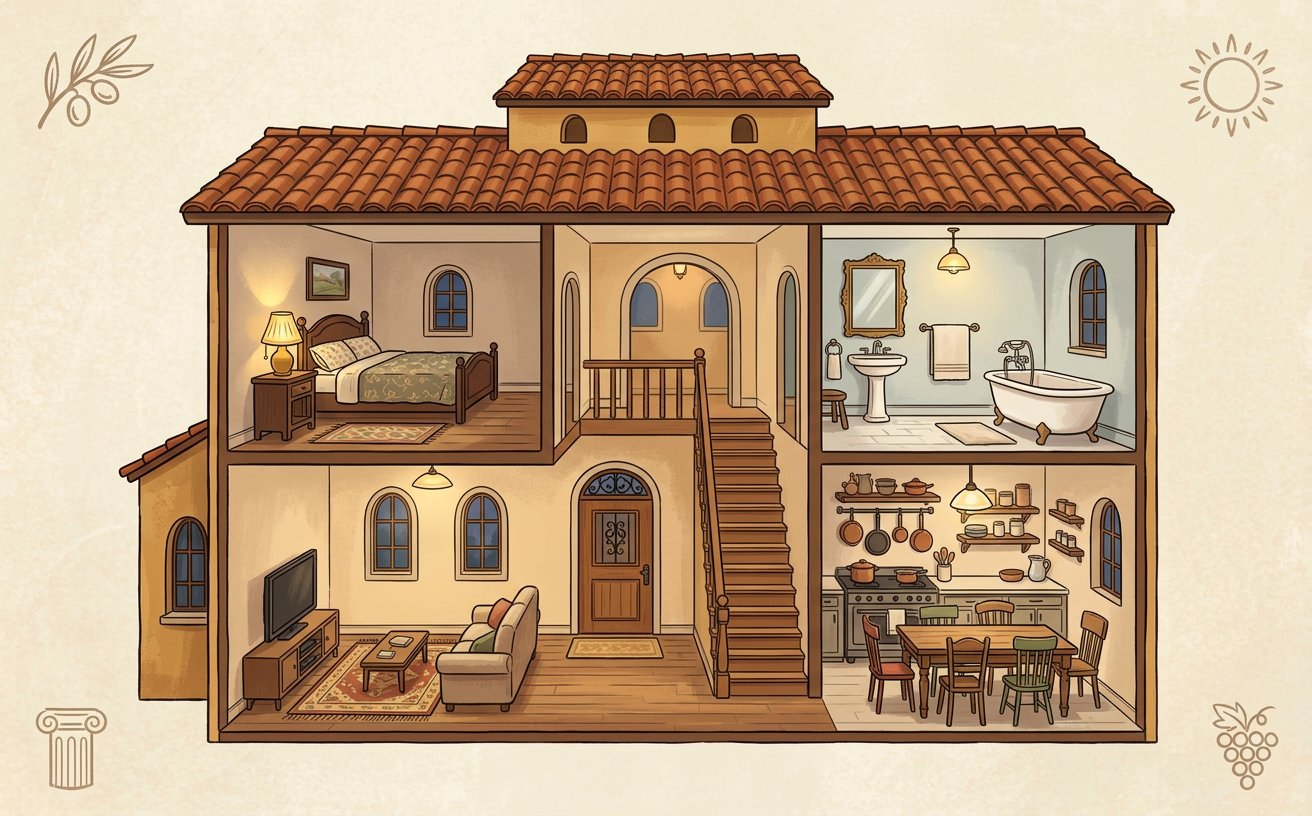
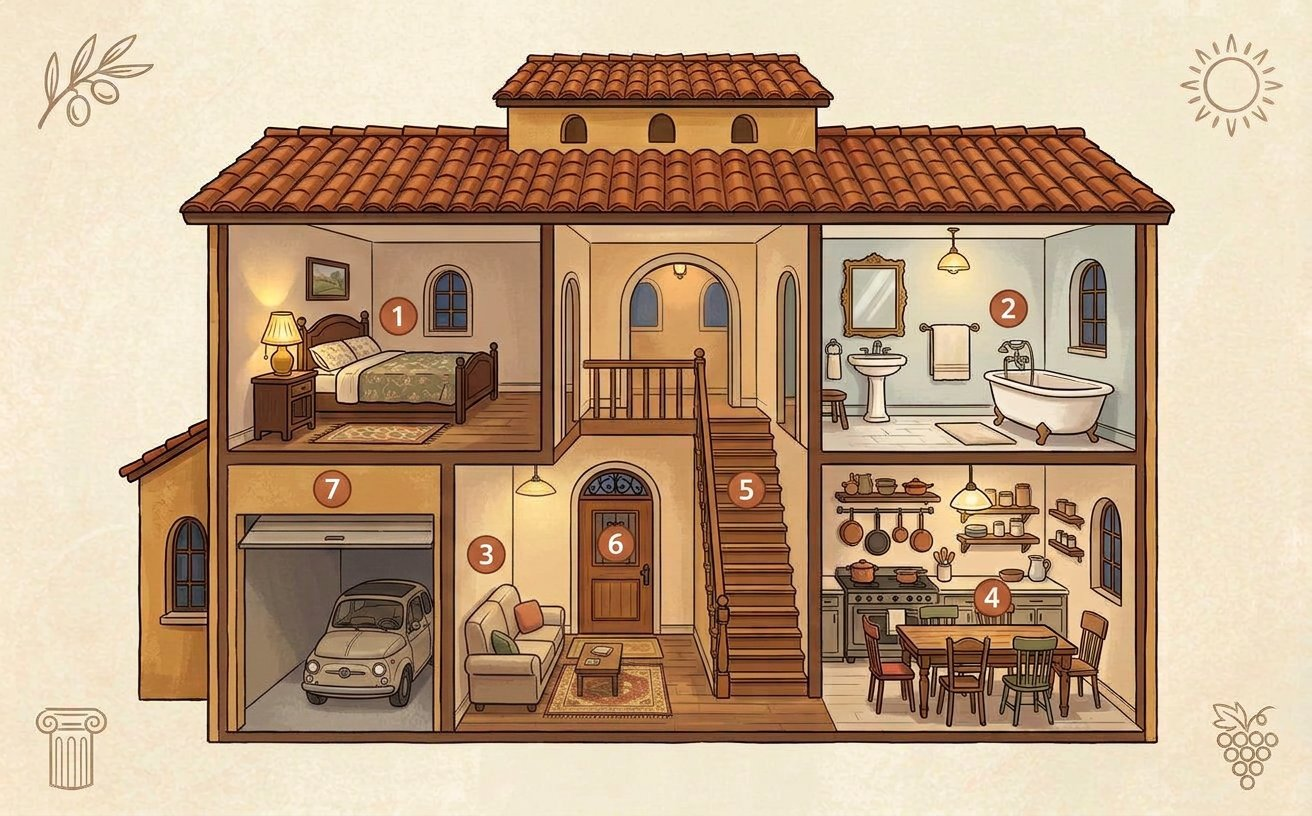
Numbered chart diagrams for Animals (12-card grid) and House (7 badges incl garage); garage card voiced

diff --git a/data/grammar.js b/data/grammar.js
@@ -1117,25 +1117,25 @@ const GRAMMAR = [
     base_en: "Farm and wild animals — find each one in the picture.",
     hint: "You already know كَلْب dog, قِطَّة cat, عُصْفور bird, قُنْفُذ hedgehog, غُراب crow, عَنْزَة goat and سَرَطان crab from the stories — here are the rest!",
     forms: [
-      { tag: "Farm · المزرعة", q_en: "The horse. The cow. The sheep. The donkey.",
+      { tag: "Farm · ١-٤", q_en: "Chart 1-4: The horse. The cow. The sheep. The donkey.",
         ar: "الحِصانُ. البَقَرَةُ. الخَروفُ. الحِمارُ.",
-        tr: "al-ḥiṣānu. al-baqaratu. al-kharūfu. al-ḥimāru.",
-        note: "بَقَرَة cow gives its name to the Quran's longest sura!",
+        tr: "1 al-ḥiṣānu · 2 al-baqaratu · 3 al-kharūfu · 4 al-ḥimāru",
+        note: "Match badges 1-4 in the chart. بَقَرَة cow gives its name to the Quran's longest sura!",
         audio: "animals-1" },
-      { tag: "Wild · البرية", q_en: "The lion. The elephant. The monkey. The fox.",
+      { tag: "Wild · ٦-٩", q_en: "Chart 6-9: The lion. The elephant. The monkey. The fox.",
         ar: "الأَسَدُ. الفيلُ. القِرْدُ. الثَّعْلَبُ.",
-        tr: "al-asadu. al-fīlu. al-qirdu. ath-thaʿlabu.",
-        note: "أَسَد lion — a beloved boys' name too. ثَعْلَب fox = the trickster of Arabic fables.",
+        tr: "6 al-asadu · 7 al-fīlu · 8 al-qirdu · 9 ath-thaʿlabu",
+        note: "Badges 6-9. أَسَد lion — a beloved boys' name too. ثَعْلَب fox = the trickster of Arabic fables.",
         audio: "animals-2" },
-      { tag: "The camel · الجمل", q_en: "The camel is the ship of the desert.",
+      { tag: "The camel · ٥", q_en: "Chart 5: The camel is the ship of the desert.",
         ar: "الجَمَلُ سَفينَةُ الصَّحْراءِ.",
-        tr: "al-jamalu safīnatu ṣ-ṣaḥrāʾi.",
-        note: "The famous phrase! جَمَل camel, سَفينَة ship, صَحْراء desert (the word 'Sahara' itself!).",
+        tr: "5 al-jamalu safīnatu ṣ-ṣaḥrāʾi.",
+        note: "Badge 5 — the famous phrase! جَمَل camel, سَفينَة ship, صَحْراء desert (the word 'Sahara' itself!).",
         audio: "animals-3" },
-      { tag: "In action · جملة", q_en: "The birds sing, the fish swim, and the bees make honey.",
+      { tag: "In action · ١٠-١٢", q_en: "Chart 10-12: The birds sing, the fish swim, and the bees make honey.",
         ar: "الطُّيورُ تُغَرِّدُ، وَالأَسْماكُ تَسْبَحُ، وَالنَّحْلُ يَصْنَعُ العَسَلَ.",
-        tr: "aṭ-ṭuyūru tugharridu, wa-l-asmāku tasbaḥu, wa-n-naḥlu yaṣnaʿu l-ʿasala.",
-        note: "Plurals: طُيور birds, أَسْماك fish. NON-human plurals take SHE-verbs — a key Arabic rule!",
+        tr: "10 ṭuyūr · 11 asmāk · 12 naḥl — aṭ-ṭuyūru tugharridu, wa-l-asmāku tasbaḥu, wa-n-naḥlu yaṣnaʿu l-ʿasala.",
+        note: "Badges 10-12. NON-human plurals take SHE-verbs — a key Arabic rule!",
         audio: "animals-4" }
     ],
     roles: {
@@ -1155,16 +1155,21 @@ const GRAMMAR = [
     base_en: "Rooms of the house — walk through the cutaway.",
     hint: "Room names are built with إضافة (of-phrases): غُرْفَةُ النَّوْمِ = room-of-sleep. Learn the pattern, build any room!",
     forms: [
-      { tag: "The rooms · الغرف", q_en: "The bedroom. The living room. The kitchen. The bathroom.",
-        ar: "غُرْفَةُ النَّوْمِ. غُرْفَةُ الجُلوسِ. المَطْبَخُ. الحَمّامُ.",
-        tr: "ghurfatu n-nawmi. ghurfatu l-julūsi. al-maṭbakhu. al-ḥammāmu.",
-        note: "Room-of-sleeping, room-of-sitting — from verbs you know: نامَ and جَلَسَ!",
+      { tag: "The rooms · ١-٤", q_en: "Badges 1-4: The bedroom. The bathroom. The living room. The kitchen.",
+        ar: "غُرْفَةُ النَّوْمِ. الحَمّامُ. غُرْفَةُ الجُلوسِ. المَطْبَخُ.",
+        tr: "1 ghurfatu n-nawmi · 2 al-ḥammāmu · 3 ghurfatu l-julūsi · 4 al-maṭbakhu",
+        note: "Follow the numbers in the cutaway! Room-of-sleeping, room-of-sitting — from verbs you know: نامَ and جَلَسَ.",
         audio: "house-1" },
-      { tag: "Parts · الأجزاء", q_en: "The door. The window. The ceiling. The wall. The stairs.",
+      { tag: "Parts · ٥-٦", q_en: "Badges 5-6 and around: The door. The window. The ceiling. The wall. The stairs.",
         ar: "البابُ. النّافِذَةُ. السَّقْفُ. الجِدارُ. الدَّرَجُ.",
-        tr: "al-bābu. an-nāfidhatu. as-saqfu. al-jidāru. ad-daraju.",
-        note: "باب and نافِذَة are old friends from the stories. دَرَج = stairs.",
+        tr: "6 al-bābu · an-nāfidhatu · as-saqfu · al-jidāru · 5 ad-daraju",
+        note: "Badge 5 = the stairs, badge 6 = the front door. باب and نافِذَة are old friends from the stories.",
         audio: "house-2" },
+      { tag: "Garage · ٧", q_en: "Badge 7: The garage. The car is in the garage.",
+        ar: "المِرْآبُ. السَّيّارَةُ في المِرْآبِ.",
+        tr: "7 al-mirʾābu. as-sayyāratu fī l-mirʾābi.",
+        note: "مِرْآب garage (colloquially also كَراج!). And السَّيّارَة you know from Layla's sea trip.",
+        audio: "house-5" },
       { tag: "Furniture · الأثاث", q_en: "The table and the chair are in the dining room.",
         ar: "الطّاوِلَةُ وَالكُرْسِيُّ في غُرْفَةِ الطَّعامِ.",
         tr: "aṭ-ṭāwilatu wa-l-kursiyyu fī ghurfati ṭ-ṭaʿāmi.",

diff --git a/index.html b/index.html
@@ -7,8 +7,8 @@
 <meta name="theme-color" content="#000000">
 <link rel="manifest" href="manifest.json">
 <link rel="preload" href="assets/fonts/msr-subset.woff2" as="font" type="font/woff2" crossorigin>
-<link rel="stylesheet" href="assets/fonts/fonts.css?v=77">
-<link rel="stylesheet" href="styles.css?v=77">
+<link rel="stylesheet" href="assets/fonts/fonts.css?v=78">
+<link rel="stylesheet" href="styles.css?v=78">
 </head>
 <body data-theme="dark">
 
@@ -287,12 +287,12 @@
   </div>
 </div>
 
-<script src="icons.js?v=77"></script>
-<script src="data/wordaudio.js?v=77"></script>
-<script src="data/wordbank.js?v=77"></script>
-<script src="data/stories.js?v=77"></script>
-<script src="data/dialogues.js?v=77"></script>
-<script src="data/grammar.js?v=77"></script>
-<script src="app.js?v=77"></script>
+<script src="icons.js?v=78"></script>
+<script src="data/wordaudio.js?v=78"></script>
+<script src="data/wordbank.js?v=78"></script>
+<script src="data/stories.js?v=78"></script>
+<script src="data/dialogues.js?v=78"></script>
+<script src="data/grammar.js?v=78"></script>
+<script src="app.js?v=78"></script>
 </body>
 </html>

diff --git a/app.js b/app.js
@@ -740,7 +740,7 @@
 
   // PWA service worker — with a self-healing version check:
   // if an outdated worker/caches are found, wipe them and reload once.
-  const APP_VERSION = "v77";
+  const APP_VERSION = "v78";
   if ("serviceWorker" in navigator) {
     if (localStorage.getItem("hikaya-app-version") !== APP_VERSION) {
       // nuke any stale workers + caches from older versions

diff --git a/sw.js b/sw.js
@@ -1,7 +1,7 @@
 /* Hikaya service worker
    v2 — network-first for app files (so updates show immediately),
    cache fallback for offline reading. Media stays cache-friendly. */
-const CACHE = "hikaya-v77";
+const CACHE = "hikaya-v78";
 const CORE = [
   "./",
   "./index.html",
